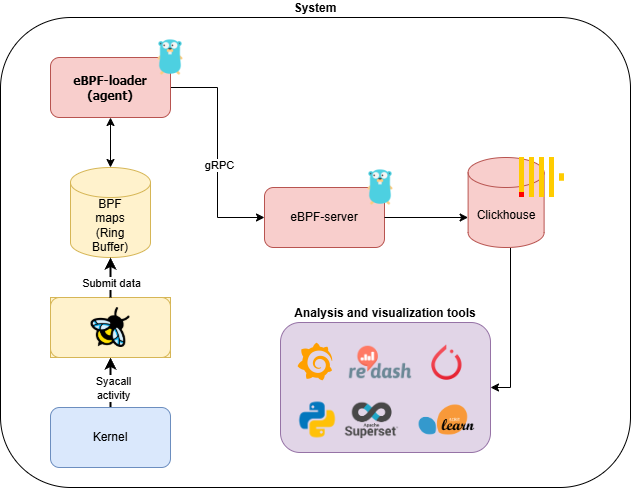
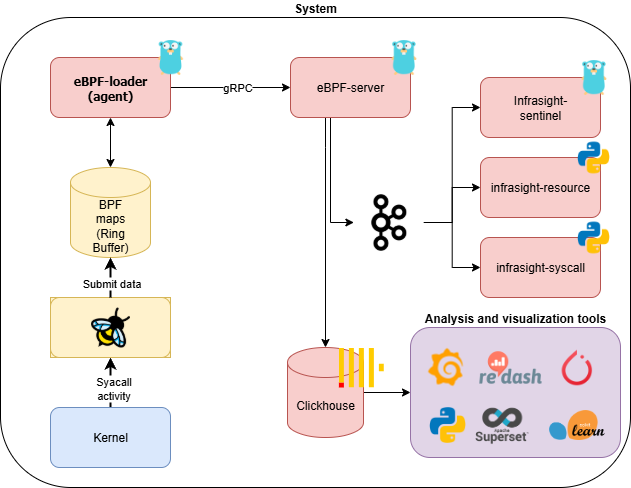
updsate the architecture docs

diff --git a/docs/architecture.md b/docs/architecture.md
@@ -14,20 +14,16 @@ At the core of InfraSight are **eBPF Agents**, which are lightweight, kernel-lev
 * **`open`**: Tracking file access and modification.
 * **`chmod`**: Observing file permission changes.
 * **`connect`** and **`accept`**: Monitoring network connection and acceptance events.
+* **`ptrace`** → Detecting process tracing operations (debuggers, tampering, reverse engineering).
+* **`mmap`** → Tracking memory mapping activity, including suspicious RWX mappings.
+* **`mount`** and **`umount`** → Monitoring filesystem mount/unmount activity, often linked to container isolation or tampering.
+* **`Resource`** → Measuring process resource usage (CPU time, memory allocations, I/O, page faults, and process lifecycle events).
+* **`SyscallFreq`** → Aggregating syscall invocation counts per process, useful for anomaly detection based on unusual syscall usage patterns.
 
 These eBPF programs operate directly within the Linux kernel, providing efficient and real-time event tracing with minimal overhead. The **eBPF Agents** collect raw data, including process information, network events, and file system interactions.
 
-### **2. Data Enrichment at the Source**
 
-Once raw data is collected by the eBPF agents, it is enriched on the source node. This initial enrichment may involve:
-
-* Resolving **user IDs (UID)** to human-readable **usernames**.
-* Extracting container metadata using cgroup information to understand which container the process belongs to (when applicable).
-* Converting **latency** from nanoseconds to more understandable units such as milliseconds or seconds.
-
-This pre-enriched data is then streamed to the central **InfraSight Server** via a **gRPC pipeline**.
-
-### **3. InfraSight Server**
+### **2. InfraSight Server**
 
 The **InfraSight Server** serves as the central processing unit, receiving the raw events from the eBPF Agents. Upon receiving the data, the server performs additional enrichment, such as:
 
@@ -37,7 +33,32 @@ The **InfraSight Server** serves as the central processing unit, receiving the r
 
 Once enriched, the data is stored in a high-performance, scalable database.
 
-### **4. ClickHouse Database**
+### **3. Kafka Message Bus**
+
+**Apache Kafka** acts as the event distribution backbone of InfraSight. By publishing enriched eBPF events into Kafka, the platform allows multiple consumers to subscribe and process the data independently. This decouples data collection from detection and analysis, enabling scalability and modularity.
+
+### **4. Detection & Analytics Components**
+
+InfraSight provides multiple detection layers consuming data from Kafka:
+
+#### 🔹 InfraSight Sentinel (Rules Engine)
+The **InfraSight Sentinel** is the rules engine that evaluates eBPF events in real time. Its goal is to detect suspicious behaviors such as fileless execution, privilege escalation, or unusual system activity.  
+
+It is responsible for:
+- Consuming events from Kafka produced by the InfraSight server.  
+- Applying security rules (based on syscalls and enriched process/container context).  
+- Generating structured alerts with detailed process, container, and user information.  
+- Integrating seamlessly with the rest of the InfraSight ecosystem.  
+
+#### 🔹 Anomaly Detection (ML Models)
+InfraSight also includes **machine learning–based anomaly detection** modules:
+
+- **`infrasight-resource`** → Focuses on detecting anomalies in **resource usage patterns** (CPU, memory, faults, etc).  
+- **`infrasight-syscall`** → Detects anomalies in **syscall frequency and behavior**, identifying deviations from learned baselines.  
+
+These models consume Kafka events, apply per-container and global anomaly detection, and produce alerts or insights. They complement Sentinel by identifying subtle or previously unknown threats.
+
+### **5. ClickHouse Database**
 
 InfraSight uses **ClickHouse**, a columnar database optimized for fast analytical queries, as the backend to store and manage the collected events. ClickHouse allows efficient querying even with large volumes of data, which is essential for event-driven telemetry systems.
 
